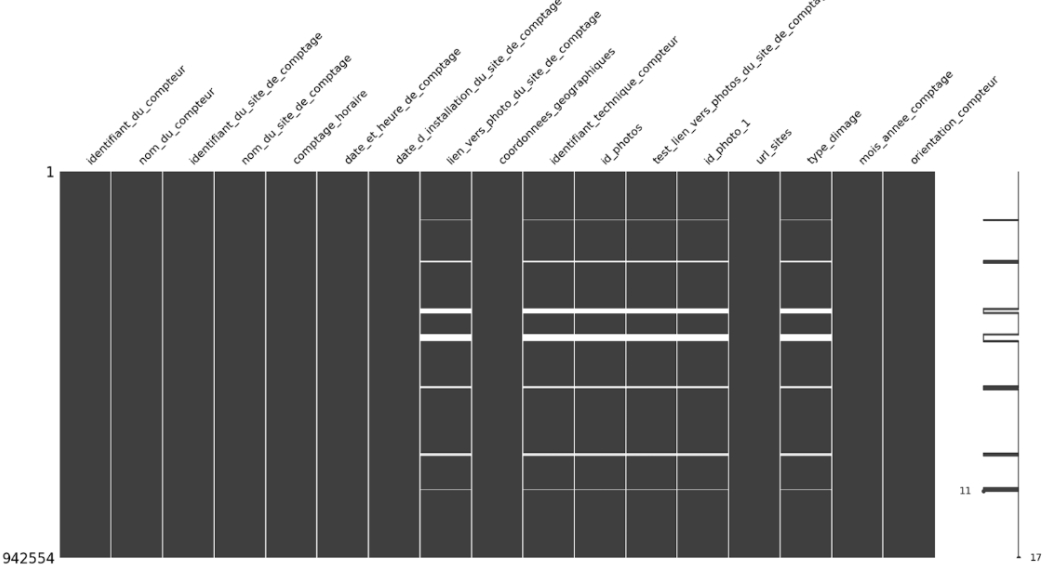
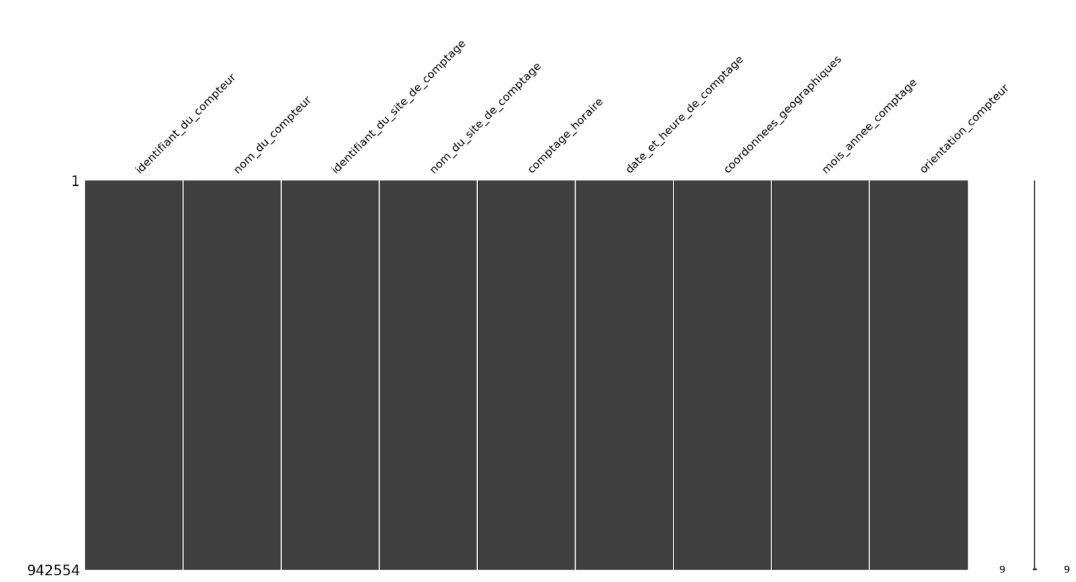
reformlulation de certaines sections pour la présentation

diff --git a/app/sections/project_presentation.py b/app/sections/project_presentation.py
@@ -17,43 +17,25 @@ with st.expander("🎙 A - Introduction (1 min)", expanded=False):
     La Ville de Paris dispose de compteurs permanents pour évaluer la
     pratique cycliste. Le but du projet : **prédire l’évolution horaire du
     trafic vélo** par site, pour :
-    - Adapter les aménagements cyclables
-    - Détecter les zones à surveiller
-    - Évaluer l’impact des facteurs météo, jour férié, horaire, etc.
+    - Comprendre l'évolution du comptage par site et par heure.
+    - Adapter les aménagements cyclables.
+    - [*Bonus abandonné : évaluer l'influence du trafic Vélib*]
 
     👥 **Équipe** : Rémy Canal, Elias Djouadi, (Raphaël Parmentier)
 
-    🧠 **Méthodologie** : mise en place d'une pipeline ML(Ops) complète +
+    🎯 **Objectif** : mise en place d'une pipeline ML(Ops) complète +
     laboratoire interactif Streamlit
     """)
 
 with st.expander("🔍 B - Exploration & Visualisation (8 min)", expanded=False):
     st.markdown("### 1. Données sources & nettoyages")
     st.markdown("""
-    - 940k+ observations, 13 mois glissants – source OpenData Paris
-    - Nettoyage des doublons/valeurs manquantes (clusters par nom de compteur)
-    - **Reconstruction automatique** de noms de compteur erronés
+    - **940k+ observations** sur **13 mois glissants** – source OpenData Paris
+    - Nettoyage des **doublons/valeurs manquantes** (clusters par nom de compteur)
+    - **Reconstruction** de noms de compteur erronés
     """)
 
     with st.expander("Détails sur le Nettoyage", expanded=False):
-        st.markdown("#### 1.1 Traitement des données manquantes")
-        col1, col2 = st.columns([0.6, 0.4])
-        with col1:
-            st.markdown("""
-            **Répartition de l'absence de valeur (initiale)**
-            Ce graphique montre la répartition des valeurs manquantes par
-            colonne avant tout traitement. On observe des clusters d'absence
-            concentrés sur des colonnes techniques et liées aux photos.
-            """)
-        with col2:
-            img = Path("app/assets/B/repartition_absence_de_valeur.png")
-            if img.exists():
-                st.image(str(img), use_container_width=True,
-                         caption="Répartition de l’absence de valeur (initiale)")
-            else:
-                st.warning("Image not found: app/assets/B/"
-                           "repartition_absence_de_valeur.png")
-
         st.markdown("""
         Les valeurs manquantes sont regroupées sur des plages d'index contiguës
         ,principalement pour des colonnes liées aux photos et identifiants
@@ -78,16 +60,15 @@ with st.expander("🔍 B - Exploration & Visualisation (8 min)", expanded=False)
         jugées peu explicatives, ont été abandonnées.
         """)
 
-        st.markdown("#### 1.2 Traitement des types")
-        col1, col2 = st.columns([0.6, 0.4])
+        col1, col2 = st.columns([0.5, 0.5])
         with col1:
-            st.markdown("""
-            **Répartition de l'absence de valeur (corrigée)**
-            Ce graphique montre l'état des valeurs manquantes après la phase
-            de nettoyage et de correction. La majorité des informations
-            techniques non essentielles ont été traitées, laissant un
-            dataset plus propre.
-            """)
+            img = Path("app/assets/B/repartition_absence_de_valeur.png")
+            if img.exists():
+                st.image(str(img), use_container_width=True,
+                         caption="Répartition de l’absence de valeur (initiale)")
+            else:
+                st.warning("Image not found: app/assets/B/"
+                           "repartition_absence_de_valeur.png")
         with col2:
             img = Path("app/assets/B/repartition_absence_de_valeur_corrige.png")
             if img.exists():
@@ -97,13 +78,22 @@ with st.expander("🔍 B - Exploration & Visualisation (8 min)", expanded=False)
                 st.warning("Image not found: app/assets/B/"
                            "repartition_absence_de_valeur_corrige.png")
 
-        st.markdown("""
-        Nous avons ajusté le type de certaines variables et extrait des
-        informations périodiques (année, mois, jour, heure, semaine) de la
-        variable `date_et_heure_de_comptage`. Des informations géographiques
-        (latitude,longitude) ont été extraites de `coordonnees_geographiques`
-        et l'orientation du compteur du `nom_du_compteur`.
-        """)
+        col1, col2 = st.columns([0.5, 0.5])
+        with col1:
+            st.markdown("""
+            **Répartition de l'absence de valeur (initiale)**
+            Ce graphique montre la répartition des valeurs manquantes par
+            colonne avant tout traitement. On observe des clusters d'absence
+            concentrés sur des colonnes techniques et liées aux photos.
+            """)
+        with col2:
+            st.markdown("""
+            **Répartition de l'absence de valeur (corrigée)**
+            Ce graphique montre l'état des valeurs manquantes après la phase
+            de nettoyage et de correction. La majorité des informations
+            techniques non essentielles ont été traitées, laissant un
+            dataset plus propre.
+            """)
 
     st.markdown("### 2. Feature engineering & enrichissement")
     with st.expander("Détails sur l'Enrichissement", expanded=False):
@@ -286,23 +276,8 @@ with st.expander("🔍 B - Exploration & Visualisation (8 min)", expanded=False)
             else:
                 st.warning("Image not found: app/assets/B/qq_plot_residus.png")
 
-        st.markdown("#### 4.1.2 Comptage moyen par jour de la semaine")
-        col1, col2 = st.columns([0.6, 0.4])
+        col1, col2, col3 = st.columns([0.34, 0.34, 0.33])
         with col1:
-            st.markdown("""
-            Ce graphique met en lumière les différences d’intensité du trafic
-            cycliste selon les jours de la semaine, en moyenne horaire.
-            🔝 **Jours les plus fréquentés** : Mardi (89.8) et Jeudi (89.6),
-            reflétant une forte activité cycliste en milieu de semaine.
-            Mercredi (87.9) est proche.
-            📉 **Déclin en fin de semaine** : Le trafic baisse légèrement le
-            Vendredi (≈81), puis significativement le Samedi (≈62) et surtout
-            Dimanche (≈55), montrant une transition vers un usage loisir ou
-            un abandon temporaire.
-            📆 **Lundi plus faible** : Le Lundi (≈82) est en retrait,
-            potentiellement dû à un démarrage de semaine plus progressif.
-            """)
-        with col2:
             img = Path("app/assets/B/comptage_horaire_moyen_par_jour.png")
             if img.exists():
                 st.image(str(img), use_container_width=True,
@@ -310,22 +285,13 @@ with st.expander("🔍 B - Exploration & Visualisation (8 min)", expanded=False)
             else:
                 st.warning("Image not found: app/assets/B/"
                            "comptage_horaire_moyen_par_jour.png")
-
-        st.markdown("#### 4.1.3 Top 10 des heures avec le plus fort comptage total")
-        col1, col2 = st.columns([0.6, 0.4])
-        with col1:
-            st.markdown("""
-            Ce graphique met en évidence les dix heures les plus fréquentées
-            sur l’ensemble des stations.
-            **Heures de pointe très marquées** : La pointe du soir (**18h**)
-            est en tête (plus de 7,5 millions), suivie de 19h, 17h et 20h.
-            **Heures de début de journée très actives** : Les créneaux 8h et
-            9h enregistrent un fort comptage (> 5.9 millions), témoignant des
-            déplacements domicile-travail.
-            **Heures de milieu de journée plus modérées** : 12h, 13h, 15h et
-            16h affichent un comptage moindre (3.6 à 4.1 millions),
-            correspondant à des déplacements personnels/professionnels.
-            """)
+        with col3:
+            img = Path("app/assets/B/Top_10_stations.png")
+            if img.exists():
+                st.image(str(img), use_container_width=True,
+                         caption="Top 10 des stations les plus fréquentées")
+            else:
+                st.warning("Image not found: app/assets/B/Top_10_stations.png")
         with col2:
             img = Path("app/assets/B/top_10_heures_fort_comptage.png")
             if img.exists():
@@ -335,30 +301,52 @@ with st.expander("🔍 B - Exploration & Visualisation (8 min)", expanded=False)
                 st.warning("Image not found: app/assets/B/"
                            "top_10_heures_fort_comptage.png")
 
-        st.markdown("#### 4.1.4 Top 10 des stations les plus fréquentées")
-        col1, col2 = st.columns([0.6, 0.4])
+        col1, col2, col3 = st.columns([0.34, 0.34, 0.33])
         with col1:
+            st.markdown("#### Comptage moyen par jour de la semaine")
+            st.markdown("""
+            Ce graphique met en lumière les différences d’intensité du trafic
+            cycliste selon les jours de la semaine, en moyenne horaire.
+            - **Jours les plus fréquentés** : Mardi (89.8) et Jeudi (89.6),
+            reflétant une forte activité cycliste en milieu de semaine.
+            Mercredi (87.9) est proche.
+            - **Déclin en fin de semaine** : Le trafic baisse légèrement le
+            Vendredi (≈81), puis significativement le Samedi (≈62) et surtout
+            Dimanche (≈55), montrant une transition vers un usage loisir ou
+            un abandon temporaire.
+            - **Lundi plus faible** : Le Lundi (≈82) est en retrait,
+            potentiellement dû à un démarrage de semaine plus progressif.
+            """)
+        with col2:
+            st.markdown("#### Top 10 des heures avec le plus fort comptage total")
+            st.markdown("""
+            Ce graphique met en évidence les dix heures les plus fréquentées
+            sur l’ensemble des stations.
+            - **Heures de pointe très marquées** : La pointe du soir (**18h**)
+            est en tête (plus de 7,5 millions), suivie de 19h, 17h et 20h.
+            - **Heures de début de journée très actives** : Les créneaux 8h et
+            9h enregistrent un fort comptage (> 5.9 millions), témoignant des
+            déplacements domicile-travail.
+            - **Heures de milieu de journée plus modérées** : 12h, 13h, 15h et
+            16h affichent un comptage moindre (3.6 à 4.1 millions),
+            correspondant à des déplacements personnels/professionnels.
+            """)
+        with col3:
+            st.markdown("#### Top 10 des stations les plus fréquentées")
             st.markdown("""
             Ce graphique met en évidence une forte concentration du trafic
             cycliste sur quelques artères majeures de Paris.
-            **Domination du boulevard de Sébastopol et de la rue de Rivoli** :
+            - **Domination du boulevard de Sébastopol et de la rue de Rivoli** :
             Le Totem 73 boulevard de Sébastopol (S-N) domine (plus de 3
             millions), avec deux stations de la rue de Rivoli également
             importantes. Ces itinéraires sont des corridors cyclables majeurs.
-            **Importance des compteurs bidirectionnels** : La présence de deux
+            - **Importance des compteurs bidirectionnels** : La présence de deux
             directions opposées sur plusieurs stations traduit des flux
             équilibrés.
-            **Diversité géographique** : D'autres stations comme Magenta,
+            - **Diversité géographique** : D'autres stations comme Magenta,
             Ménilmontant, Voltaire et la Tournelle suggèrent une diffusion de
             l’usage au-delà de l’hyper-centre.
             """)
-        with col2:
-            img = Path("app/assets/B/Top_10_stations.png")
-            if img.exists():
-                st.image(str(img), use_container_width=True,
-                         caption="Top 10 des stations les plus fréquentées")
-            else:
-                st.warning("Image not found: app/assets/B/Top_10_stations.png")
 
     with st.expander("🔬 4.2 Analyses Multivariées", expanded=False):
         st.markdown("#### 4.2.1 Corrélation entre cible et variables numériques"
@@ -672,7 +660,7 @@ with st.expander("🧪 C - Modélisation (10 à 12 min)", expanded=False):
 
     col1, col2 = st.columns([1, 2])
     col1.markdown("""
-    - 🥇 **Random Forest** : encore très bon en test avec une perte en généralisation 
+    - 🥇 **Random Forest** : encore très bon en test avec une perte en généralisation
     (de ~8% en moyenne relativement au mode explicatif)
     """)
     img = Path("app/assets/C/random_forest_mean_metrics_forecast.png")
@@ -739,9 +727,9 @@ with st.expander("🔚 D - Conclusion & Ouverture (1 min)", expanded=False):
       - **profondeur** des données (8 ans d’archives disponible sur OpenData Paris)
       - **multiplication** des sources d'entraînement (via le transfert learning).
     - Exploiter la prédiction **multi-canal** de l'architecture Granite TTM
-      (nécessite une **adaptation de la structure des données** - X colonnes `comptage
-       horaire` pour une même heure donnée pour capter les influences
-       géographiques mutuelles)
+      (nécessite une **adaptation de la structure des données** - X colonnes
+      `comptage_horaire` pour une même heure donnée pour capter les influences
+      géographiques mutuelles)
     """)
     st.info("""
     👈 Les sections suivantes permettent d'explorer nos résultats intéractivement:
